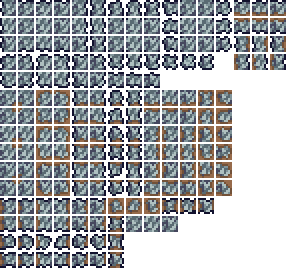
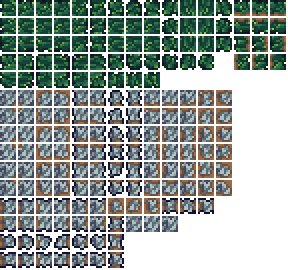
Added Malachite Ore sprites

Changed region(s): [[0.0, 0.0, 1.0, 0.3259]]

diff --git a/Content/Items/MalachiteSword.cs b/Content/Items/MalachiteSword.cs
@@ -1,0 +1,167 @@
+using Terraria;
+using Terraria.ID;
+using Terraria.ModLoader;
+using Microsoft.Xna.Framework;
+
+namespace sinister.Content.Items
+{
+	public class MalachiteSword : ModItem
+	{
+		public override void SetStaticDefaults()
+		{
+			// DisplayName.SetDefault("BasicSword"); // By default, capitalization in classnames will add spaces to the display name. You can customize the display name here by uncommenting this line.
+			Tooltip.SetDefault("This is a basic modded sword.");
+		}
+
+		public override void SetDefaults()
+		{
+			Item.damage = 50; // Damage.
+			Item.DamageType = DamageClass.Melee; // Класс оружия.
+			Item.width = 50; // Широта хитбокса.
+			Item.height = 50; // Высота хитбокса.
+			Item.useTime = 1; // Промежуток времени использования элемента в кадрах.
+			Item.useAnimation = 1; // Промежуток времени использования анимации для элемента.
+			Item.useStyle = 3; // Стиль анимации.
+			Item.knockBack = 6; // Отдача.
+			Item.value = 10000; // Стоимость предмета
+			Item.rare = 7; // Редкость предмета (https://terraria.wiki.gg/wiki/Rarity)
+			Item.UseSound = SoundID.Item1; // Звук использования.
+			Item.autoReuse = false; // Авто атака.
+			Item.useTurn = true; // Позволяет двигаться во время анимации.
+		}
+
+		public override void AddRecipes()
+		{
+			Recipe recipe = CreateRecipe();
+			recipe.AddIngredient(ItemID.DirtBlock, 10);
+			recipe.AddTile(TileID.WorkBenches);
+			recipe.Register();
+		}
+
+		public override bool? UseItem(Player player)
+		{
+			float speed = 10f; // скорость, с которой игрок будет толкаться вперед
+			player.velocity.X += speed * player.direction; // толкаем игрока вперед
+			for (int i = 0; i < Main.maxNPCs; i++) // проходим по всем NPC
+			{
+				NPC npc = Main.npc[i];
+				if (npc.active && !npc.friendly) // если NPC враждебный и имеет хп
+				{
+					float distance = Microsoft.Xna.Framework.Vector2.Distance(player.Center, npc.Center);
+					if (distance < 50f) // если NPC находится достаточно близко
+					{
+						npc.StrikeNPC(Item.damage, Item.knockBack, player.direction); // наносим ему урон и отталкиваем его
+					}
+				}
+			}
+			return true;
+		}
+	}
+
+	public class ExampleDashPlayer : ModPlayer
+	{
+		// These indicate what direction is what in the timer arrays used
+		public const int DashDown = 0;
+		public const int DashUp = 1;
+		public const int DashRight = 2;
+		public const int DashLeft = 3;
+
+		public const int DashCooldown = 50; // Time (frames) between starting dashes. If this is shorter than DashDuration you can start a new dash before an old one has finished
+		public const int DashDuration = 35; // Duration of the dash afterimage effect in frames
+
+		// The initial velocity.  10 velocity is about 37.5 tiles/second or 50 mph
+		public const float DashVelocity = 10f;
+
+		// The direction the player has double tapped.  Defaults to -1 for no dash double tap
+		public int DashDir = -1;
+
+		// The fields related to the dash accessory
+		public bool DashAccessoryEquipped;
+		public int DashDelay = 0; // frames remaining till we can dash again
+		public int DashTimer = 0; // frames remaining in the dash
+
+		public override void ResetEffects() {
+			// Reset our equipped flag. If the accessory is equipped somewhere, ExampleShield.UpdateAccessory will be called and set the flag before PreUpdateMovement
+			DashAccessoryEquipped = false;
+
+			// ResetEffects is called not long after player.doubleTapCardinalTimer's values have been set
+			// When a directional key is pressed and released, vanilla starts a 15 tick (1/4 second) timer during which a second press activates a dash
+			// If the timers are set to 15, then this is the first press just processed by the vanilla logic.  Otherwise, it's a double-tap
+			if (Player.controlDown && Player.releaseDown && Player.doubleTapCardinalTimer[DashDown] < 15) {
+				DashDir = DashDown;
+			}
+			else if (Player.controlUp && Player.releaseUp && Player.doubleTapCardinalTimer[DashUp] < 15) {
+				DashDir = DashUp;
+			}
+			else if (Player.controlRight && Player.releaseRight && Player.doubleTapCardinalTimer[DashRight] < 15) {
+				DashDir = DashRight;
+			}
+			else if (Player.controlLeft && Player.releaseLeft && Player.doubleTapCardinalTimer[DashLeft] < 15) {
+				DashDir = DashLeft;
+			}
+			else {
+				DashDir = -1;
+			}
+		}
+
+		// This is the perfect place to apply dash movement, it's after the vanilla movement code, and before the player's position is modified based on velocity.
+		// If they double tapped this frame, they'll move fast this frame
+		public override void PreUpdateMovement() {
+			// if the player can use our dash, has double tapped in a direction, and our dash isn't currently on cooldown
+			if (CanUseDash() && DashDir != -1 && DashDelay == 0) {
+				Vector2 newVelocity = Player.velocity;
+
+				switch (DashDir) {
+					// Only apply the dash velocity if our current speed in the wanted direction is less than DashVelocity
+					case DashUp when Player.velocity.Y > -DashVelocity:
+					case DashDown when Player.velocity.Y < DashVelocity: {
+							// Y-velocity is set here
+							// If the direction requested was DashUp, then we adjust the velocity to make the dash appear "faster" due to gravity being immediately in effect
+							// This adjustment is roughly 1.3x the intended dash velocity
+							float dashDirection = DashDir == DashDown ? 1 : -1.3f;
+							newVelocity.Y = dashDirection * DashVelocity;
+							break;
+						}
+					case DashLeft when Player.velocity.X > -DashVelocity:
+					case DashRight when Player.velocity.X < DashVelocity: {
+							// X-velocity is set here
+							float dashDirection = DashDir == DashRight ? 1 : -1;
+							newVelocity.X = dashDirection * DashVelocity;
+							break;
+						}
+					default:
+						return; // not moving fast enough, so don't start our dash
+				}
+
+				// start our dash
+				DashDelay = DashCooldown;
+				DashTimer = DashDuration;
+				Player.velocity = newVelocity;
+
+				// Here you'd be able to set an effect that happens when the dash first activates
+				// Some examples include:  the larger smoke effect from the Master Ninja Gear and Tabi
+			}
+
+			if (DashDelay > 0)
+				DashDelay--;
+
+			if (DashTimer > 0) { // dash is active
+				// This is where we set the afterimage effect.  You can replace these two lines with whatever you want to happen during the dash
+				// Some examples include:  spawning dust where the player is, adding buffs, making the player immune, etc.
+				// Here we take advantage of "player.eocDash" and "player.armorEffectDrawShadowEOCShield" to get the Shield of Cthulhu's afterimage effect
+				Player.eocDash = DashTimer;
+				Player.armorEffectDrawShadowEOCShield = true;
+
+				// count down frames remaining
+				DashTimer--;
+			}
+		}
+
+		private bool CanUseDash() {
+			return DashAccessoryEquipped
+				&& Player.dashType == 0 // player doesn't have Tabi or EoCShield equipped (give priority to those dashes)
+				&& !Player.setSolar // player isn't wearing solar armor
+				&& !Player.mount.Active; // player isn't mounted, since dashes on a mount look weird
+		}
+	}
+}

diff --git a/Content/Tiles/MalachiteOre.cs b/Content/Tiles/MalachiteOre.cs
@@ -21,6 +21,7 @@ namespace Sinister.Content.Tiles
 			Main.tileBlockLight[Type] = true;
 
 			ModTranslation name = CreateMapEntryName();
+			name.SetDefault("Malachite ore");
 			AddMapEntry(new Color(110, 168, 74), name);
 
 
